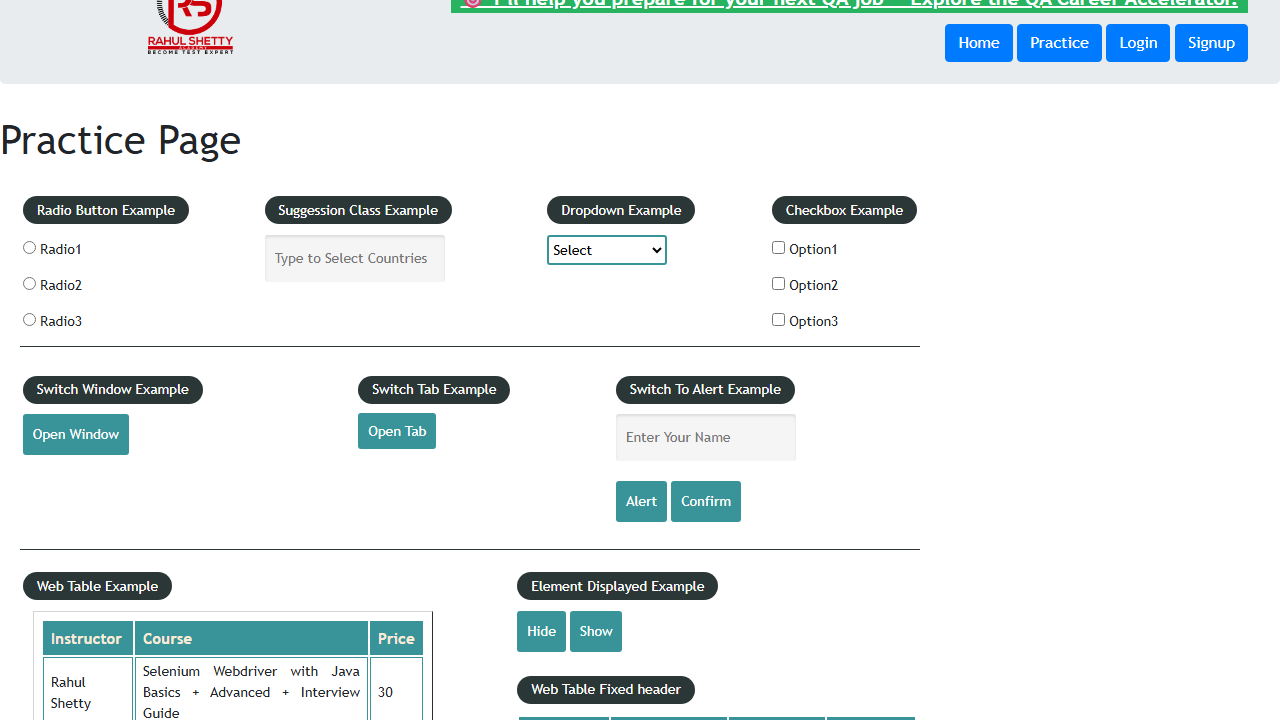
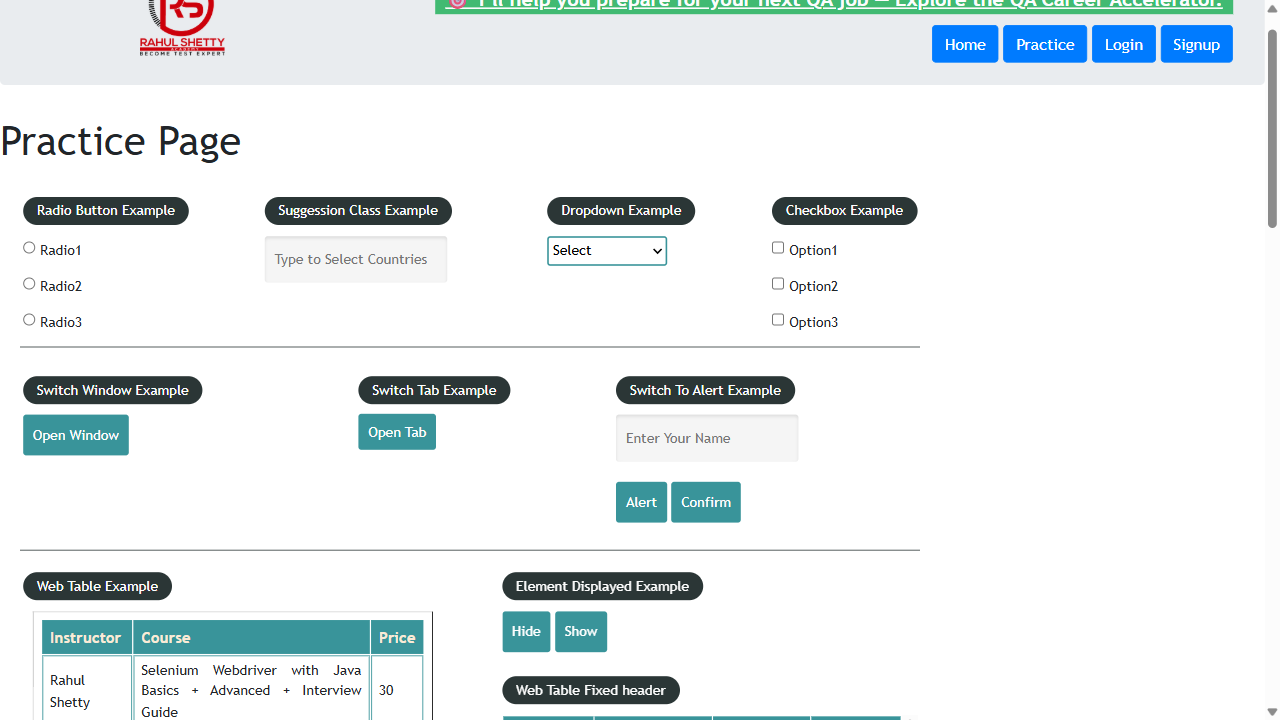
23/09

diff --git a/PlayWrightAutomation/tests/NetworkTest.spec.js b/PlayWrightAutomation/tests/NetworkTest.spec.js
@@ -1,45 +1,43 @@
-const { test, expect, request } = require('@playwright/test');
-const { APiUtils } = require('./utils/APiUtils');
-const loginPayLoad = { userEmail: "anshika@gmail.com", userPassword: "Iamking@000" };
-const orderPayLoad = { orders: [{ country: "India", productOrderedId: "6262e95ae26b7e1a10e89bf0" }] };
-const fakePayLoadOrders = { data: [], message: "No Orders" };
+const { test, expect, request } = require("@playwright/test");
+const { APiUtils } = require("./utils/APiUtils");
+const loginPayLoad = {
+  userEmail: "toader.chiriac@gmail.com",
+  userPassword: "Anaaremere1!",
+};
+const orderPayLoad = {
+  orders: [{ country: "Cuba", productOrderedId: "67a8dde5c0d3e6622a297cc8" }],
+};
+const fakePayLoad = { data: [], message: "No Orders" };
 
 let response;
 test.beforeAll(async () => {
-  const apiContext = await request.newContext();
-  const apiUtils = new APiUtils(apiContext, loginPayLoad);
-  response = await apiUtils.createOrder(orderPayLoad);
+  const apiContext = await request.newContext(); //this is used to create a new API context for making HTTP requests
+  const apiUtils = new APiUtils(apiContext, loginPayLoad); // this is used to create a new instance of the APiUtils class, passing in the apiContext and loginPayLoad as parameters
+  response = await apiUtils.createOrder(orderPayLoad); //this is used to call the createOrder method of the apiUtils instance, passing in the orderPayLoad as a parameter, and storing the response in the response variable
+});
 
-})
-
-
-//create order is success
-test('@SP Place the order', async ({ page }) => {
-  page.addInitScript(value => {
-
-    window.localStorage.setItem('token', value);
+//create order successfully
+test("@API Place the order", async ({ page }) => {
+  await page.addInitScript((value) => {
+    window.localStorage.setItem("token", value);
   }, response.token);
   await page.goto("https://rahulshettyacademy.com/client");
 
+  await page.route(
+    "https://rahulshettyacademy.com/api/ecom/order/get-orders-for-customer/6a733c2285b8849b492f372d",
+    async (route) => {
+      //intercepting response - API response ->{insert fake response here}-> browser -> render data on frontend {test what the faked response is supposed to do}
+      const response = await page.request.fetch(route.request()); //this gets the original request and sends it to the server
+      let body = JSON.stringify(fakePayLoad); //this is the fake response that we want to inject into the browser
+      route.fulfill({
+        response,
+        body,
+      });
+    },
+  ); //this is the url where we want to inject a response we want but we only replace the body
 
-  await page.route("https://rahulshettyacademy.com/api/ecom/order/get-orders-for-customer/*",
-    async route => {
-      const response = await page.request.fetch(route.request());
-      let body = JSON.stringify(fakePayLoadOrders);
-      route.fulfill(
-        {
-          response,
-          body, 
-
-        });
-      //intercepting response -APi response-> { playwright fakeresponse}->browser->render data on front end
-    });
-
-  await page.locator("button[routerlink*='myorders']").click();
-  await page.waitForResponse("https://rahulshettyacademy.com/api/ecom/order/get-orders-for-customer/*")
-
-  console.log(await page.locator(".mt-4").textContent());
-
-
-
+  await page.locator("button[routerlink*='myorders']").click(); // click on the "My Orders" button to navigate to the orders page
+  await page.pause();
+  await page.locator("tbody").waitFor();
+  const rows = await page.locator("tbody tr"); //get all the rows in the orders table
 });

diff --git a/PlayWrightAutomation/tests/WebAPIPart2.spec.js b/PlayWrightAutomation/tests/WebAPIPart2.spec.js
@@ -7,6 +7,32 @@ const productName = "Zara";
 
 let webContext;
 
+async function checkOrderId(page, orderId) {
+  await page.locator("button[routerlink*='myorders']").click();
+  await page.locator("tbody").waitFor();
+
+  const rows = page.locator("tbody tr");
+  let orderFound = false;
+
+  for (let i = 0; i < (await rows.count()); i++) {
+    const rowOrderId = (await rows.nth(i).locator("th").textContent()).trim();
+
+    if (orderId.includes(rowOrderId)) {
+      await rows.nth(i).locator("button").first().click();
+      orderFound = true;
+      break;
+    }
+  }
+  console.log("the order found is " + orderFound);
+
+  expect(orderFound).toBeTruthy();
+
+  const displayedOrderId = (
+    await page.locator(".col-text").textContent()
+  ).trim();
+  expect(orderId).toContain(displayedOrderId);
+}
+
 test.beforeAll(async ({ browser }) => {
   const loginContext = await browser.newContext();
 
@@ -20,7 +46,7 @@ test.beforeAll(async ({ browser }) => {
     await page.waitForLoadState("networkidle");
     await expect(page.locator(".card-body b").first()).toBeVisible();
 
-    await loginContext.storageState({ path: authStatePath });
+    await loginContext.storageState({ path: authStatePath }); // Save the authentication state to a file
   } finally {
     await loginContext.close();
   }
@@ -29,24 +55,26 @@ test.beforeAll(async ({ browser }) => {
 });
 
 test.afterAll(async () => {
-  await webContext?.close();
+  await webContext?.close(); // Close the web context after all tests are done
 });
 
-test("Client app login", async () => {
+test("Login and Add Product to Cart", async () => {
   const page = await webContext.newPage();
 
   try {
-    await page.goto(baseUrl);
+    await page.goto(baseUrl); // Navigate to the base URL
 
     const products = page.locator(".card-body");
     await page.locator(".card-body b").first().waitFor();
 
     let productFound = false;
     const count = await products.count();
+    console.log("the count is " + count);
 
     for (let i = 0; i < count; i++) {
       const product = products.nth(i);
       const title = (await product.locator("b").innerText()).trim();
+      console.log("the title is " + title);
 
       if (title.toLowerCase().includes(productName.toLowerCase())) {
         await product.locator("text= Add To Cart").click();
@@ -57,9 +85,9 @@ test("Client app login", async () => {
 
     expect(productFound).toBeTruthy();
 
-    await page.locator("[routerlink*='cart']").click();
-    await page.locator("div li").first().waitFor();
-    await expect(page.locator("h3", { hasText: productName })).toBeVisible();
+    await page.locator("[routerlink*='cart']").click(); // Click on the cart link
+    await page.locator("div li").first().waitFor(); // Wait for the first item in the cart to be visible
+    await expect(page.locator("h3", { hasText: productName })).toBeVisible(); // Verify that the product is in the cart
 
     await page.getByText("Checkout", { exact: true }).click();
     await page
@@ -73,6 +101,17 @@ test("Client app login", async () => {
     await expect(indiaOption).toBeVisible();
     await indiaOption.scrollIntoViewIfNeeded();
     await indiaOption.click();
+
+    await page.locator(".action__submit").click();
+    await expect(page.locator(".hero-primary")).toContainText(
+      "Thankyou for the order",
+    );
+
+    const orderId = (
+      await page.locator(".em-spacer-1 .ng-star-inserted").textContent()
+    ).trim();
+    await checkOrderId(page, orderId);
+    console.log("the order id is " + orderId);
   } finally {
     await page.close();
   }

diff --git a/PlayWrightAutomation/pageobjects_ts/CartPage.ts b/PlayWrightAutomation/pageobjects_ts/CartPage.ts
@@ -1,9 +1,9 @@
-import {test, expect,Locator,Page} from '@playwright/test';
+import {test, expect,Locator,Page} from '@playwright/test'; //import { Locator, Page } from 'playwright';
 export class CartPage
 {
 
-cartProducts : Locator;
-productsText : Locator;
+cartProducts : Locator; //div li
+productsText : Locator; 
 cart :Locator;
 orders : Locator;
 checkout : Locator;
@@ -12,12 +12,12 @@ page : Page;
     
 constructor(page: Page)
 {
-    this.page = page;
-    this.cartProducts = page.locator("div li").first();
-    this.productsText = page.locator(".card-body b");
+    this.page = page; //this code is used to initialize the page object with the provided Page instance, allowing the CartPage class to interact with the web page through Playwright's API.
+    this.cartProducts = page.locator("div li").first(); //this is used to locate the first list item (li) within a div element on the page, which is likely representing a product in the cart.
+    this.productsText = page.locator(".card-body b"); //this is used to locate all bold (b) elements within elements with the class card-body, which likely contain the names or details of the products in the cart.
     this.cart =  page.locator("[routerlink*='cart']");
     this.orders = page.locator("button[routerlink*='myorders']");
-    this.checkout = page.locator("text=Checkout");
+    this.checkout = page.locator("text=Checkout"); //this is used to locate a button or link with the exact text "Checkout" on the page, which is likely used to proceed to the checkout process for the items in the cart.
 
 }
 

diff --git a/playwright.config.js b/playwright.config.js
@@ -13,8 +13,8 @@ const config = {
     browserName: "chromium",
     headless: false,
     screenshot: "on",
-    //trace: 'on',
-    trace: "retain-on-failure",
+    trace: "on",
+    //trace: "retain-on-failure",
   },
 };
 
